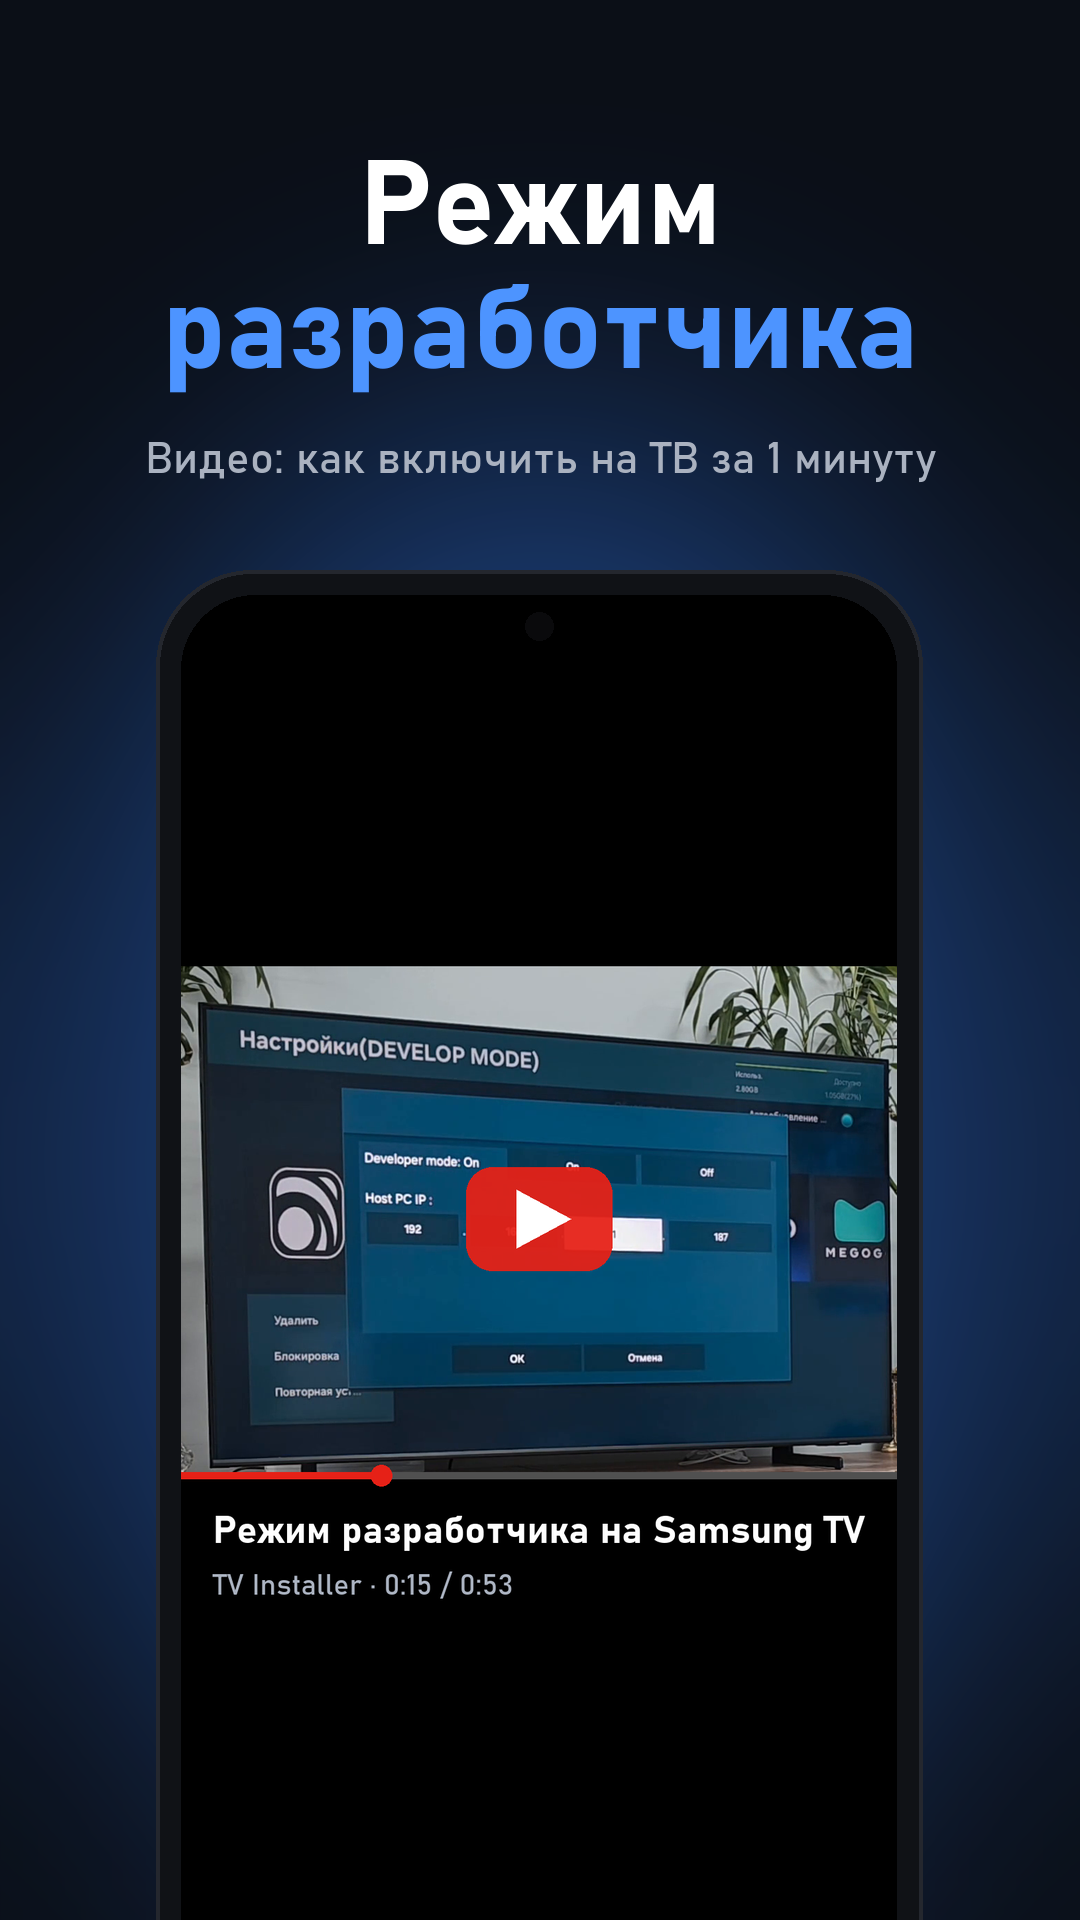
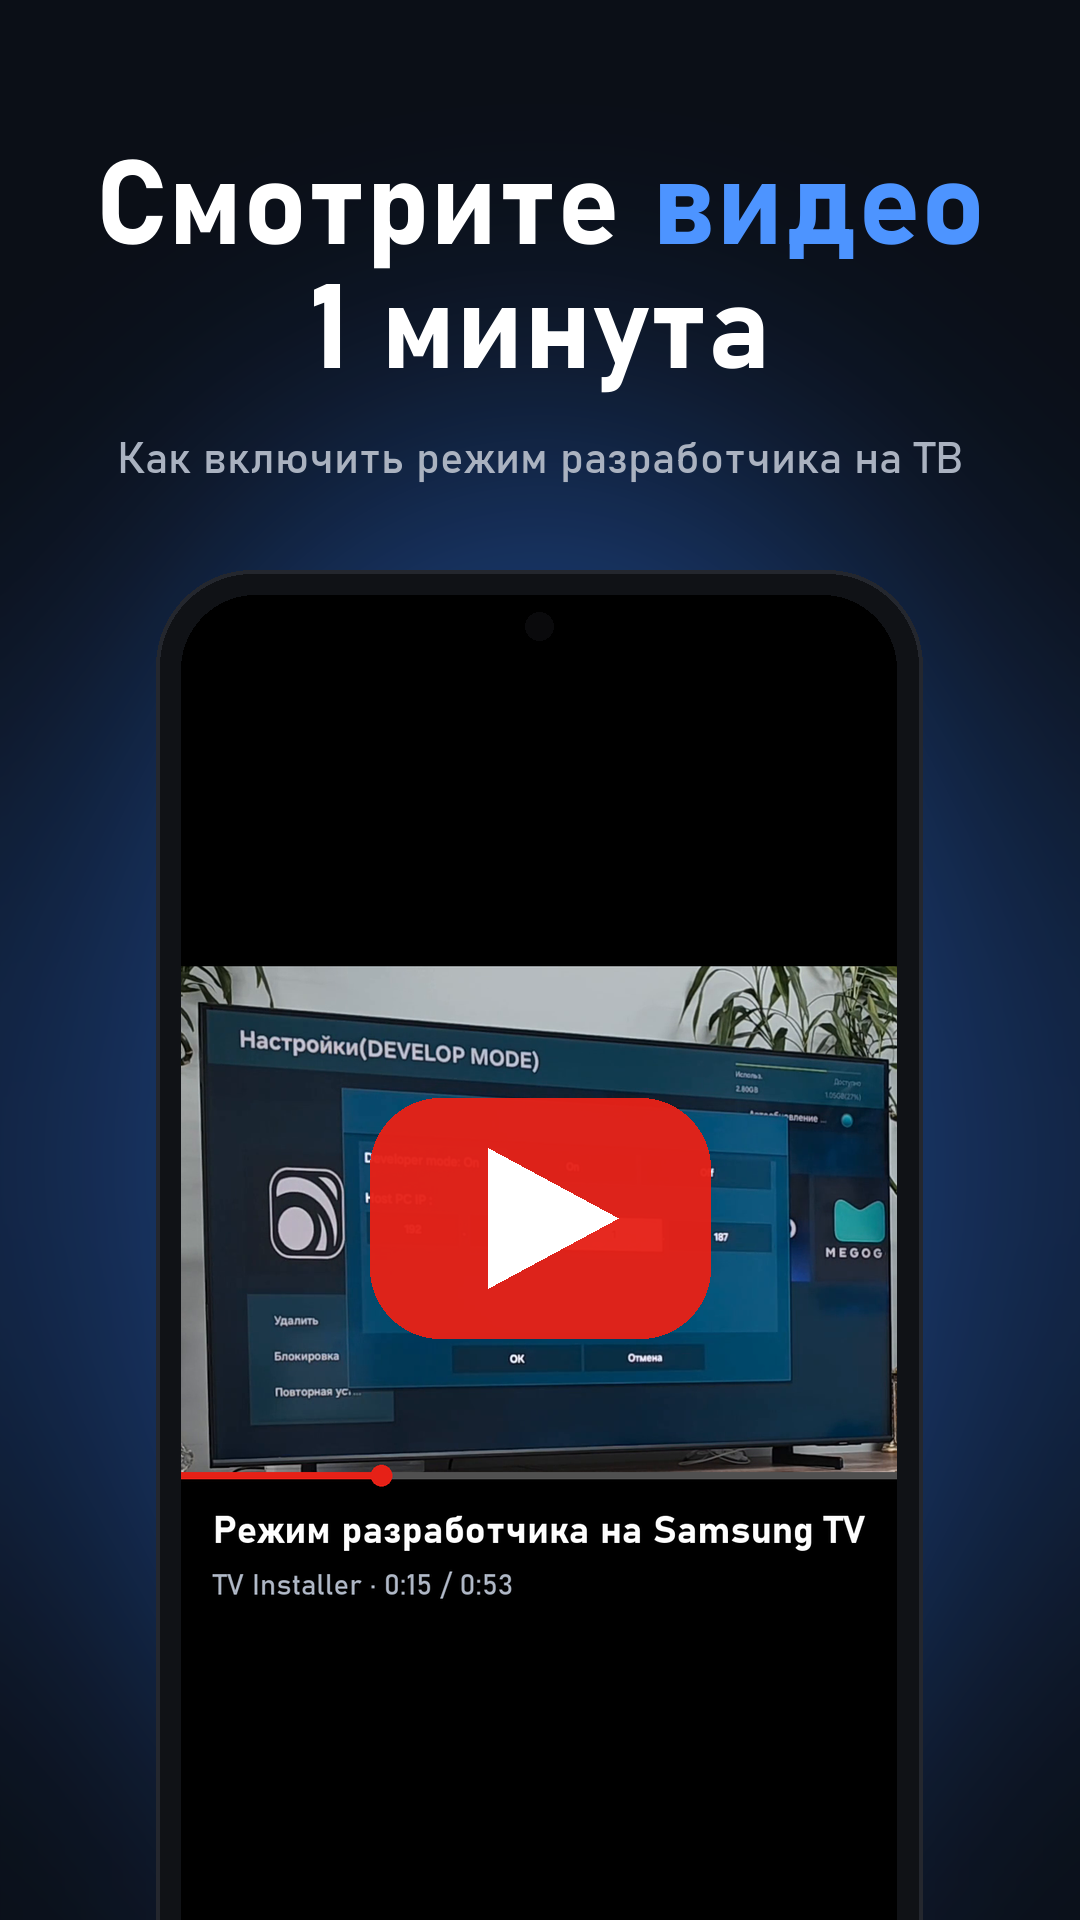
README: анимированная карточка с видео (идёт видео, пульсирует Play); постеры шрифтом Bahnschrift

Changed region(s): [[0.0917, 0.0625, 0.9167, 0.25], [0.3361, 0.5625, 0.6722, 0.7188]]

diff --git a/.github/README.ru.md b/.github/README.ru.md
@@ -29,7 +29,7 @@
   <a href="#как-это-работает"><img src="../docs/screenshots/01.png" width="140" alt=""></a>
   <a href="#как-это-работает"><img src="../docs/screenshots/02.png" width="140" alt=""></a>
   <a href="#как-это-работает"><img src="../docs/screenshots/03.png" width="140" alt=""></a>
-  <a href="https://youtu.be/U4VGa0fGYUI"><img src="../docs/screenshots/10.png" width="140" alt="video"></a>
+  <a href="https://youtu.be/U4VGa0fGYUI"><img src="../docs/screenshots/10.gif" width="140" alt="video"></a>
 </p>
 
 <br clear="right">

diff --git a/.github/README.uz.md b/.github/README.uz.md
@@ -29,7 +29,7 @@
   <a href="#qanday-ishlaydi"><img src="../docs/screenshots/uz/01.png" width="140" alt=""></a>
   <a href="#qanday-ishlaydi"><img src="../docs/screenshots/uz/02.png" width="140" alt=""></a>
   <a href="#qanday-ishlaydi"><img src="../docs/screenshots/uz/03.png" width="140" alt=""></a>
-  <a href="https://youtu.be/AB0fsIuFSII"><img src="../docs/screenshots/uz/10.png" width="140" alt="video"></a>
+  <a href="https://youtu.be/AB0fsIuFSII"><img src="../docs/screenshots/uz/10.gif" width="140" alt="video"></a>
 </p>
 
 <br clear="right">

diff --git a/.github/README.md b/.github/README.md
@@ -29,7 +29,7 @@
   <a href="#how-it-works"><img src="../docs/screenshots/en/01.png" width="140" alt=""></a>
   <a href="#how-it-works"><img src="../docs/screenshots/en/02.png" width="140" alt=""></a>
   <a href="#how-it-works"><img src="../docs/screenshots/en/03.png" width="140" alt=""></a>
-  <a href="https://youtu.be/L6nK4SBWKP0"><img src="../docs/screenshots/en/10.png" width="140" alt="video"></a>
+  <a href="https://youtu.be/L6nK4SBWKP0"><img src="../docs/screenshots/en/10.gif" width="140" alt="video"></a>
 </p>
 
 <br clear="right">
